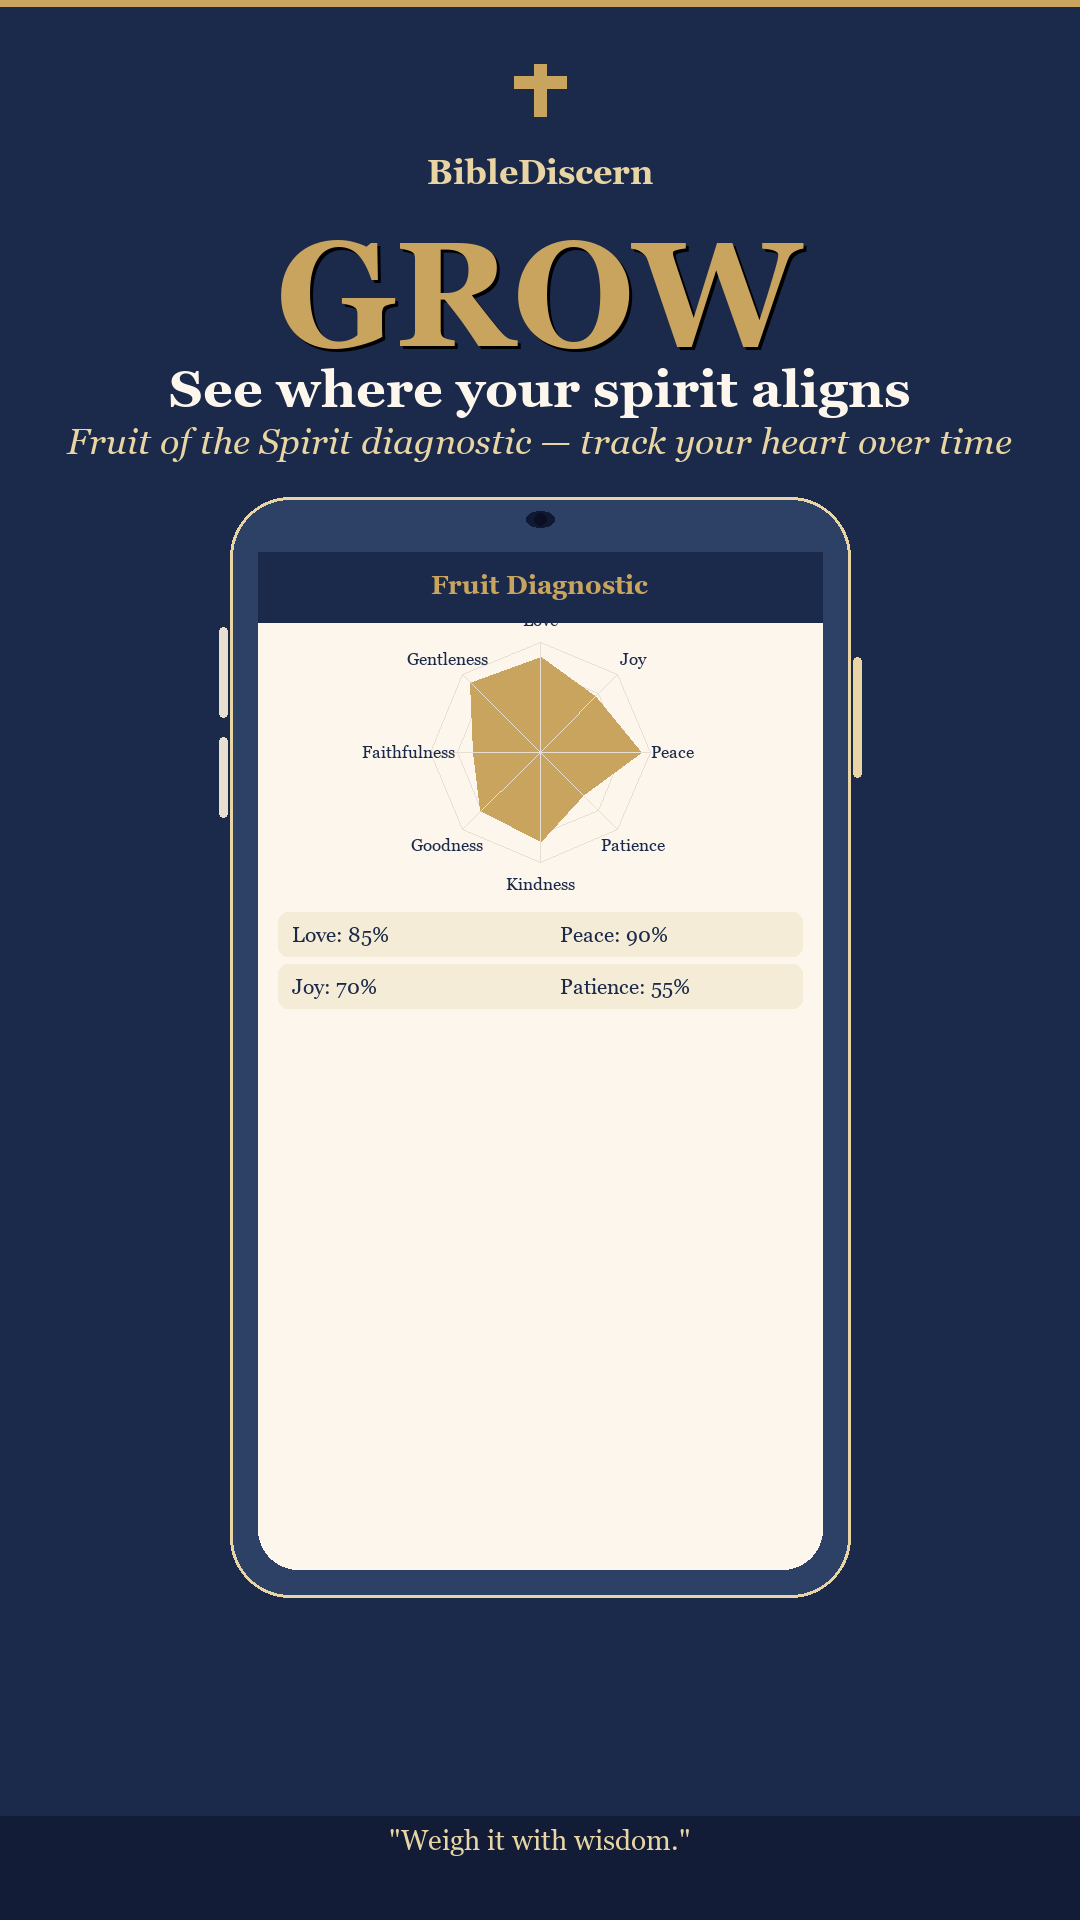
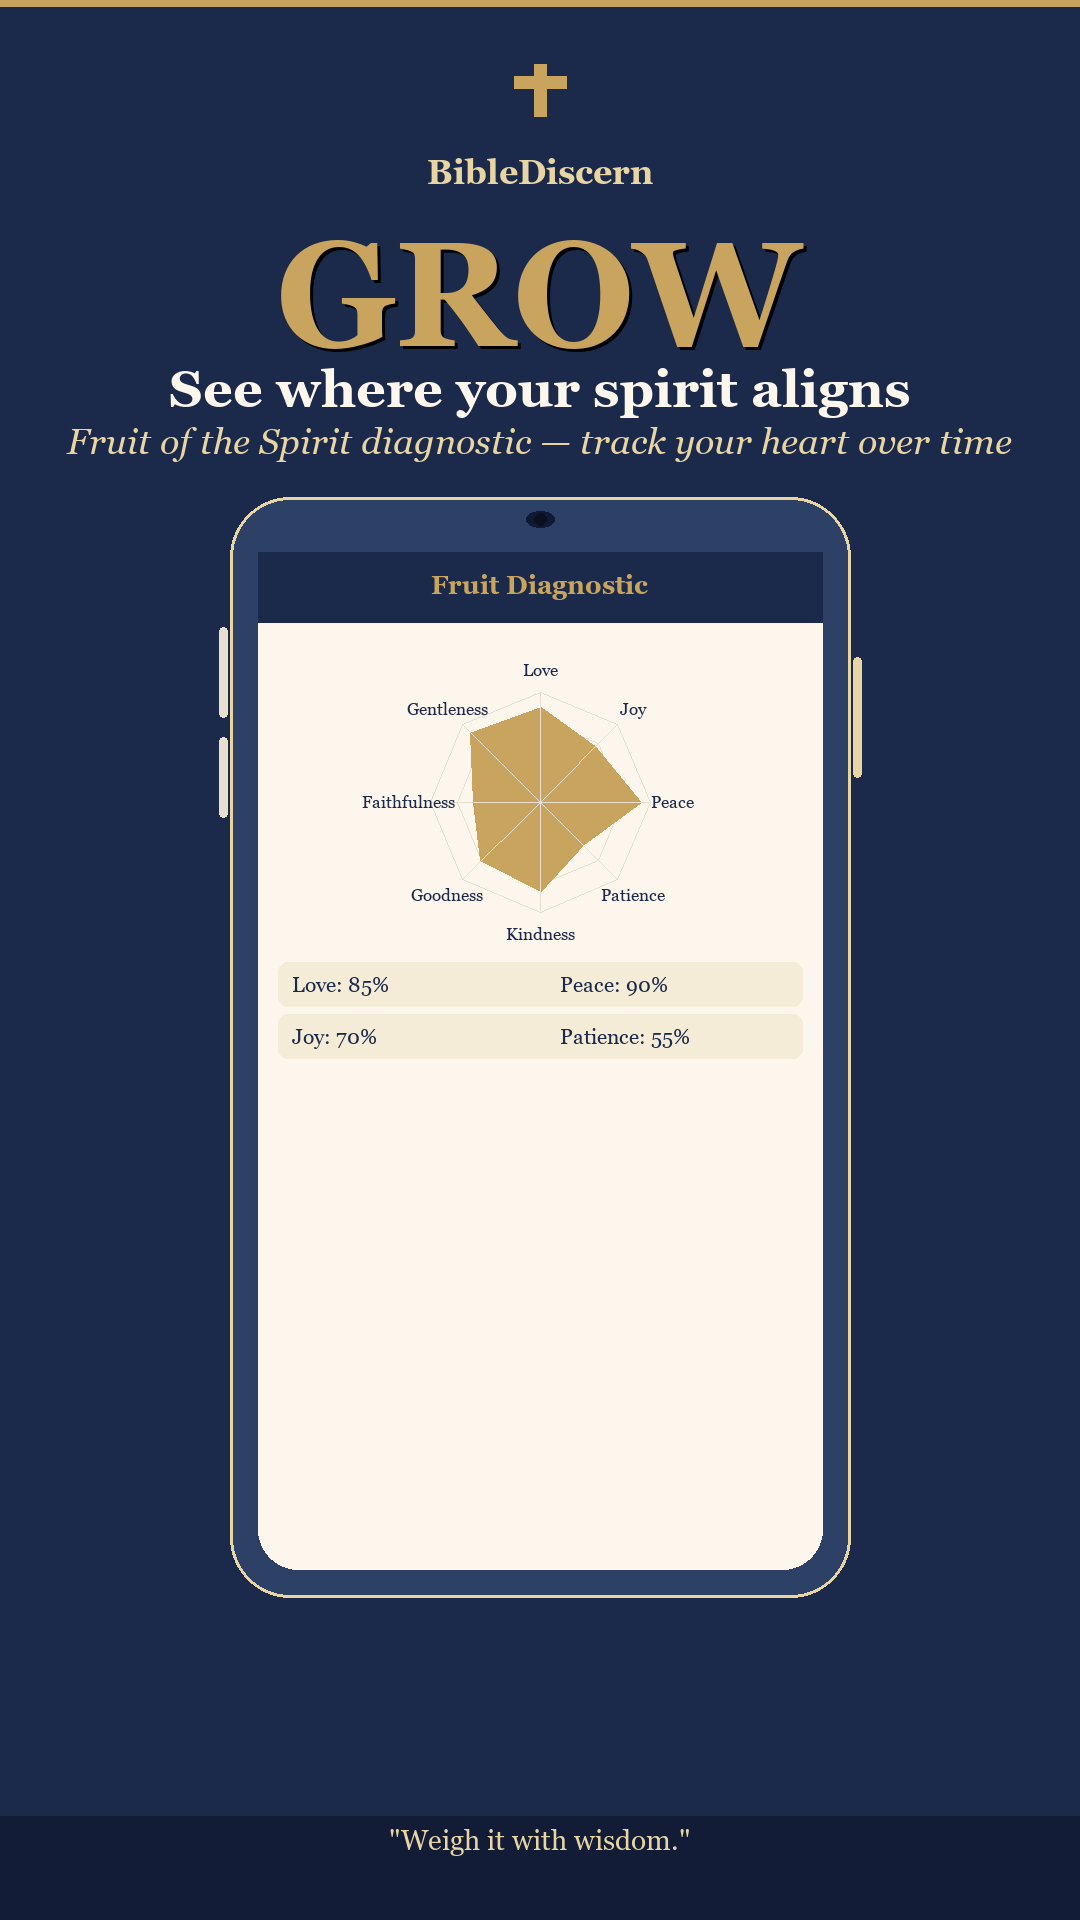
fix: shift radar chart down on GROW screenshot so Love label is visible

Changed region(s): [[0.3361, 0.3438, 0.6417, 0.5625], [0.275, 0.5, 0.3667, 0.5625]]

diff --git a/.claude/skills/aso-screenshots/android/compose.py b/.claude/skills/aso-screenshots/android/compose.py
@@ -273,7 +273,7 @@ def render_fruit_ui(draw, sx0, sy0, sx1, sy1):
     sw = sx1 - sx0
     pad = 20
     cx = (sx0 + sx1) // 2
-    cy_chart = sy0 + 200
+    cy_chart = sy0 + 250
 
     draw_rounded_rect(draw, [sx0, sy0, sx1, sy0 + 70], radius=0, fill=NAVY)
     draw_text_in_screen(draw, "Fruit Diagnostic", sx0, sx1, sy0 + 18, F_UI_HDR, GOLD)